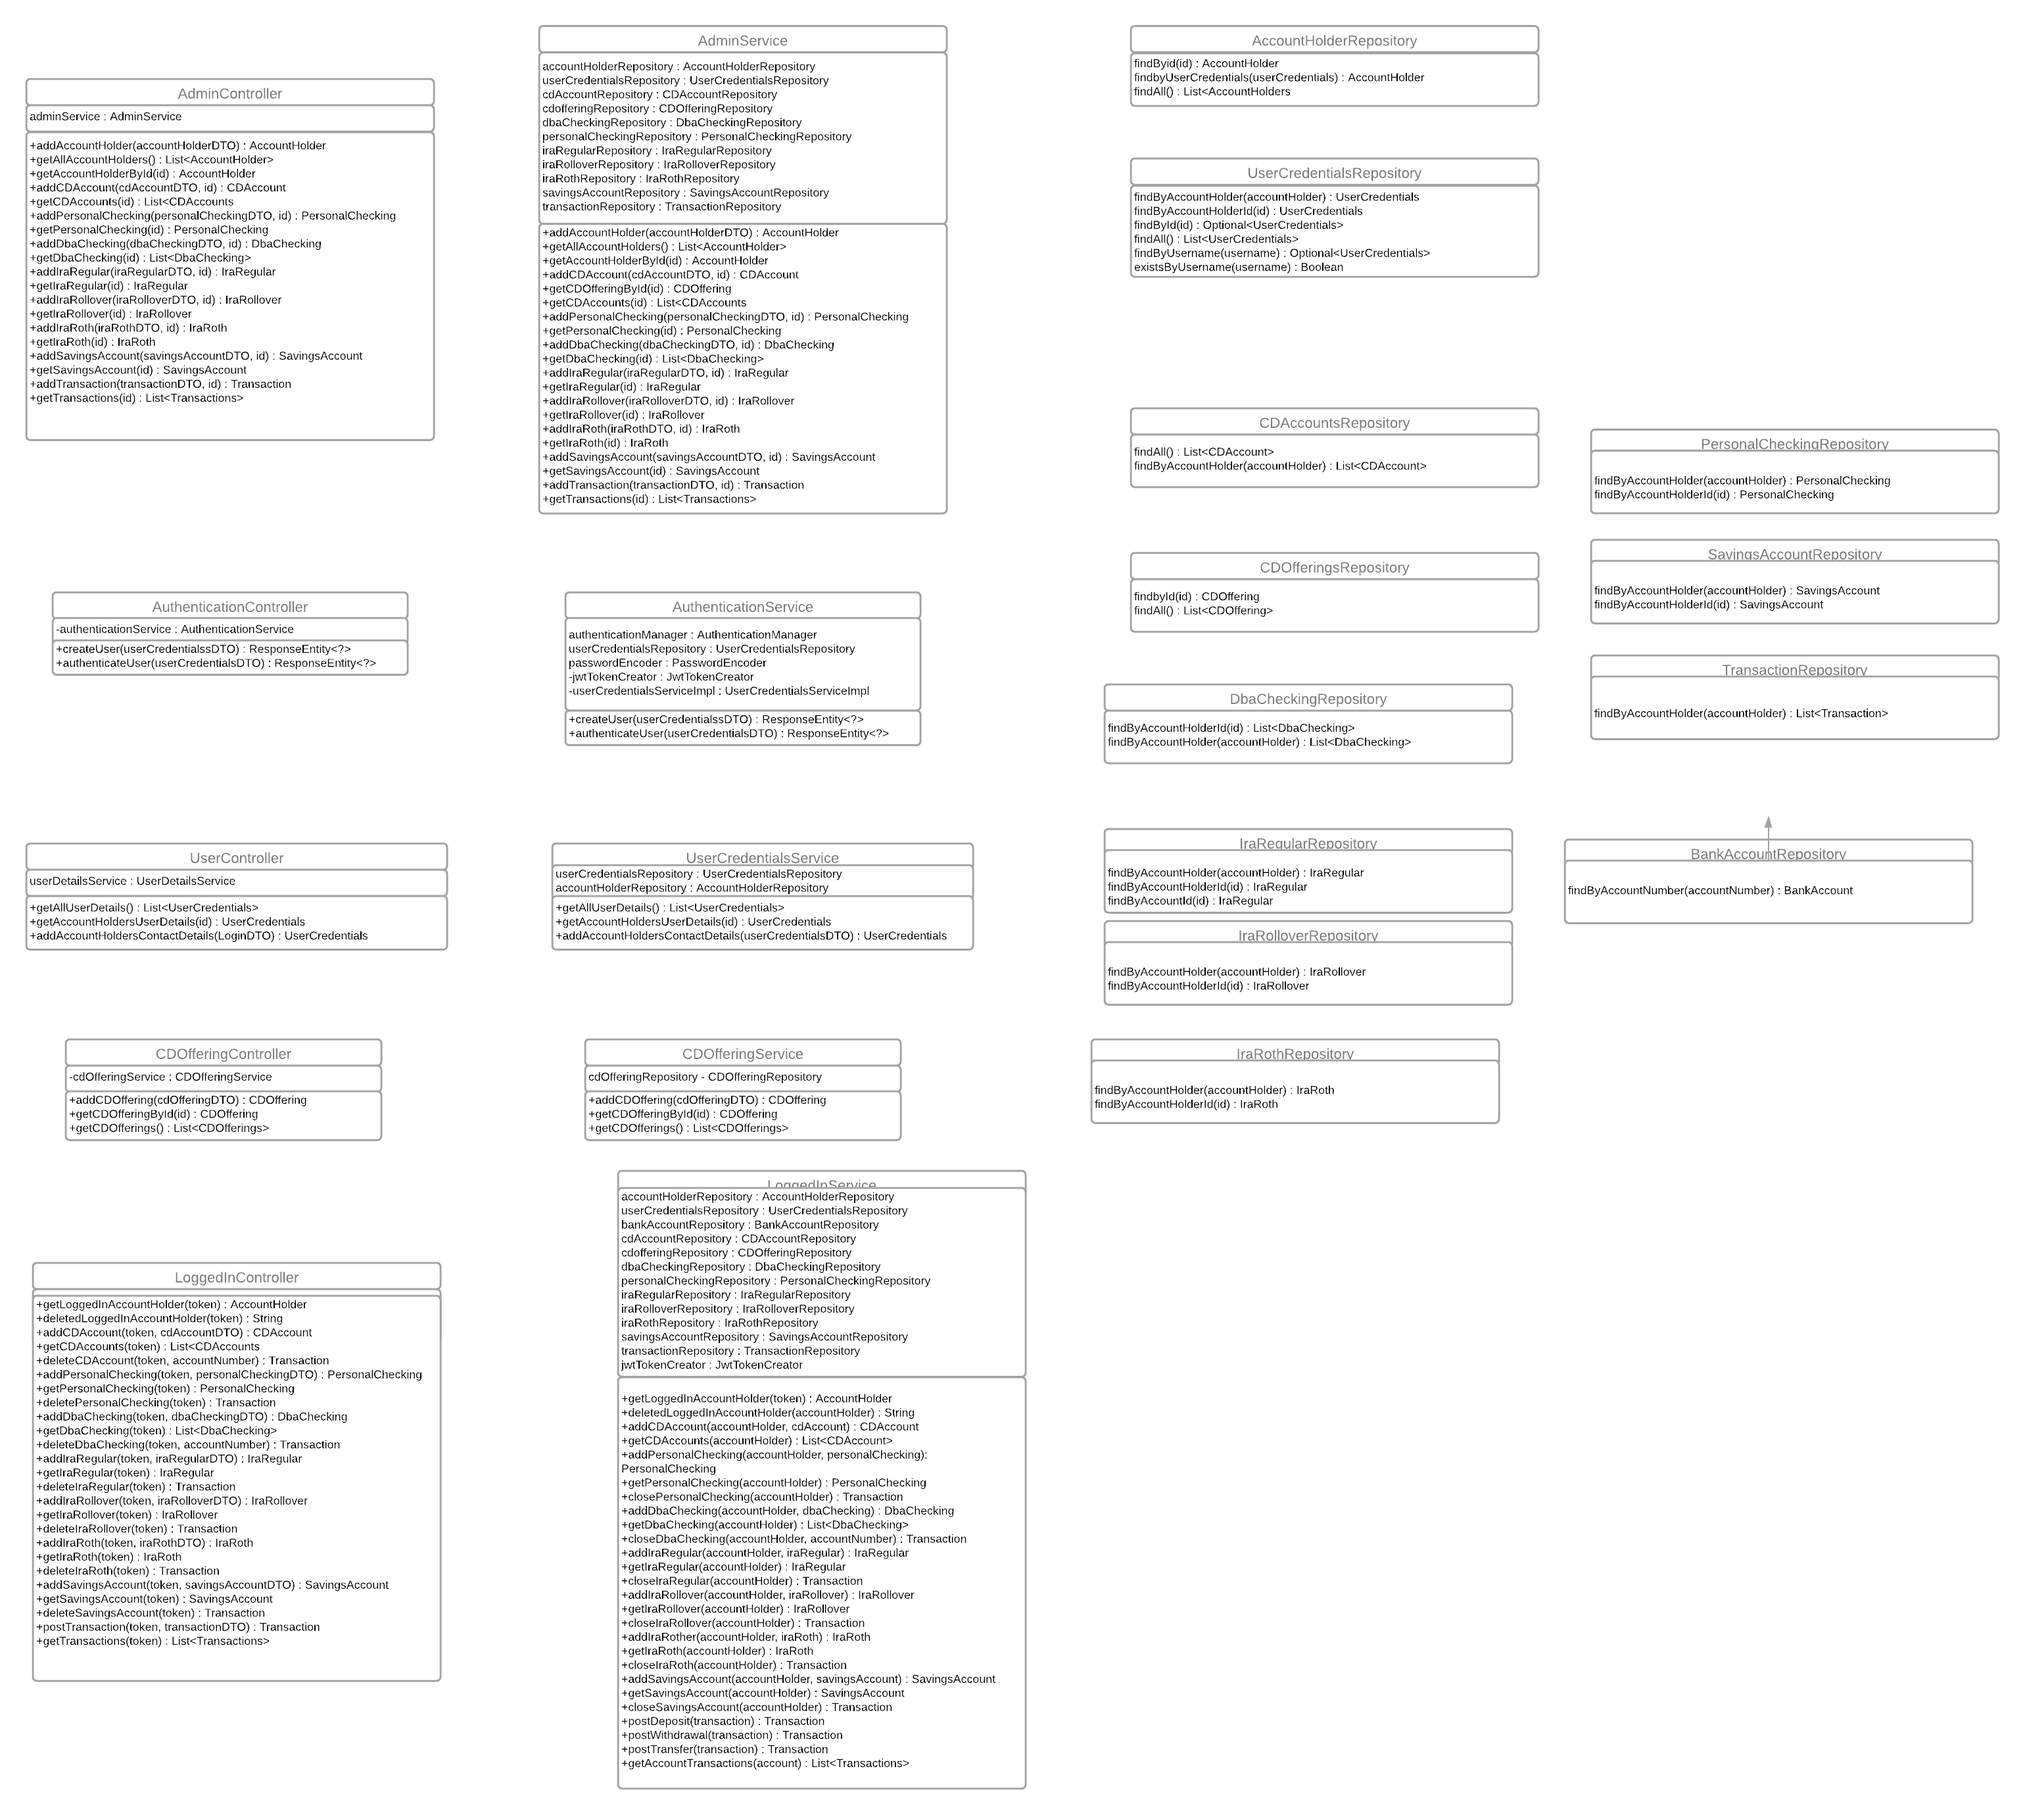
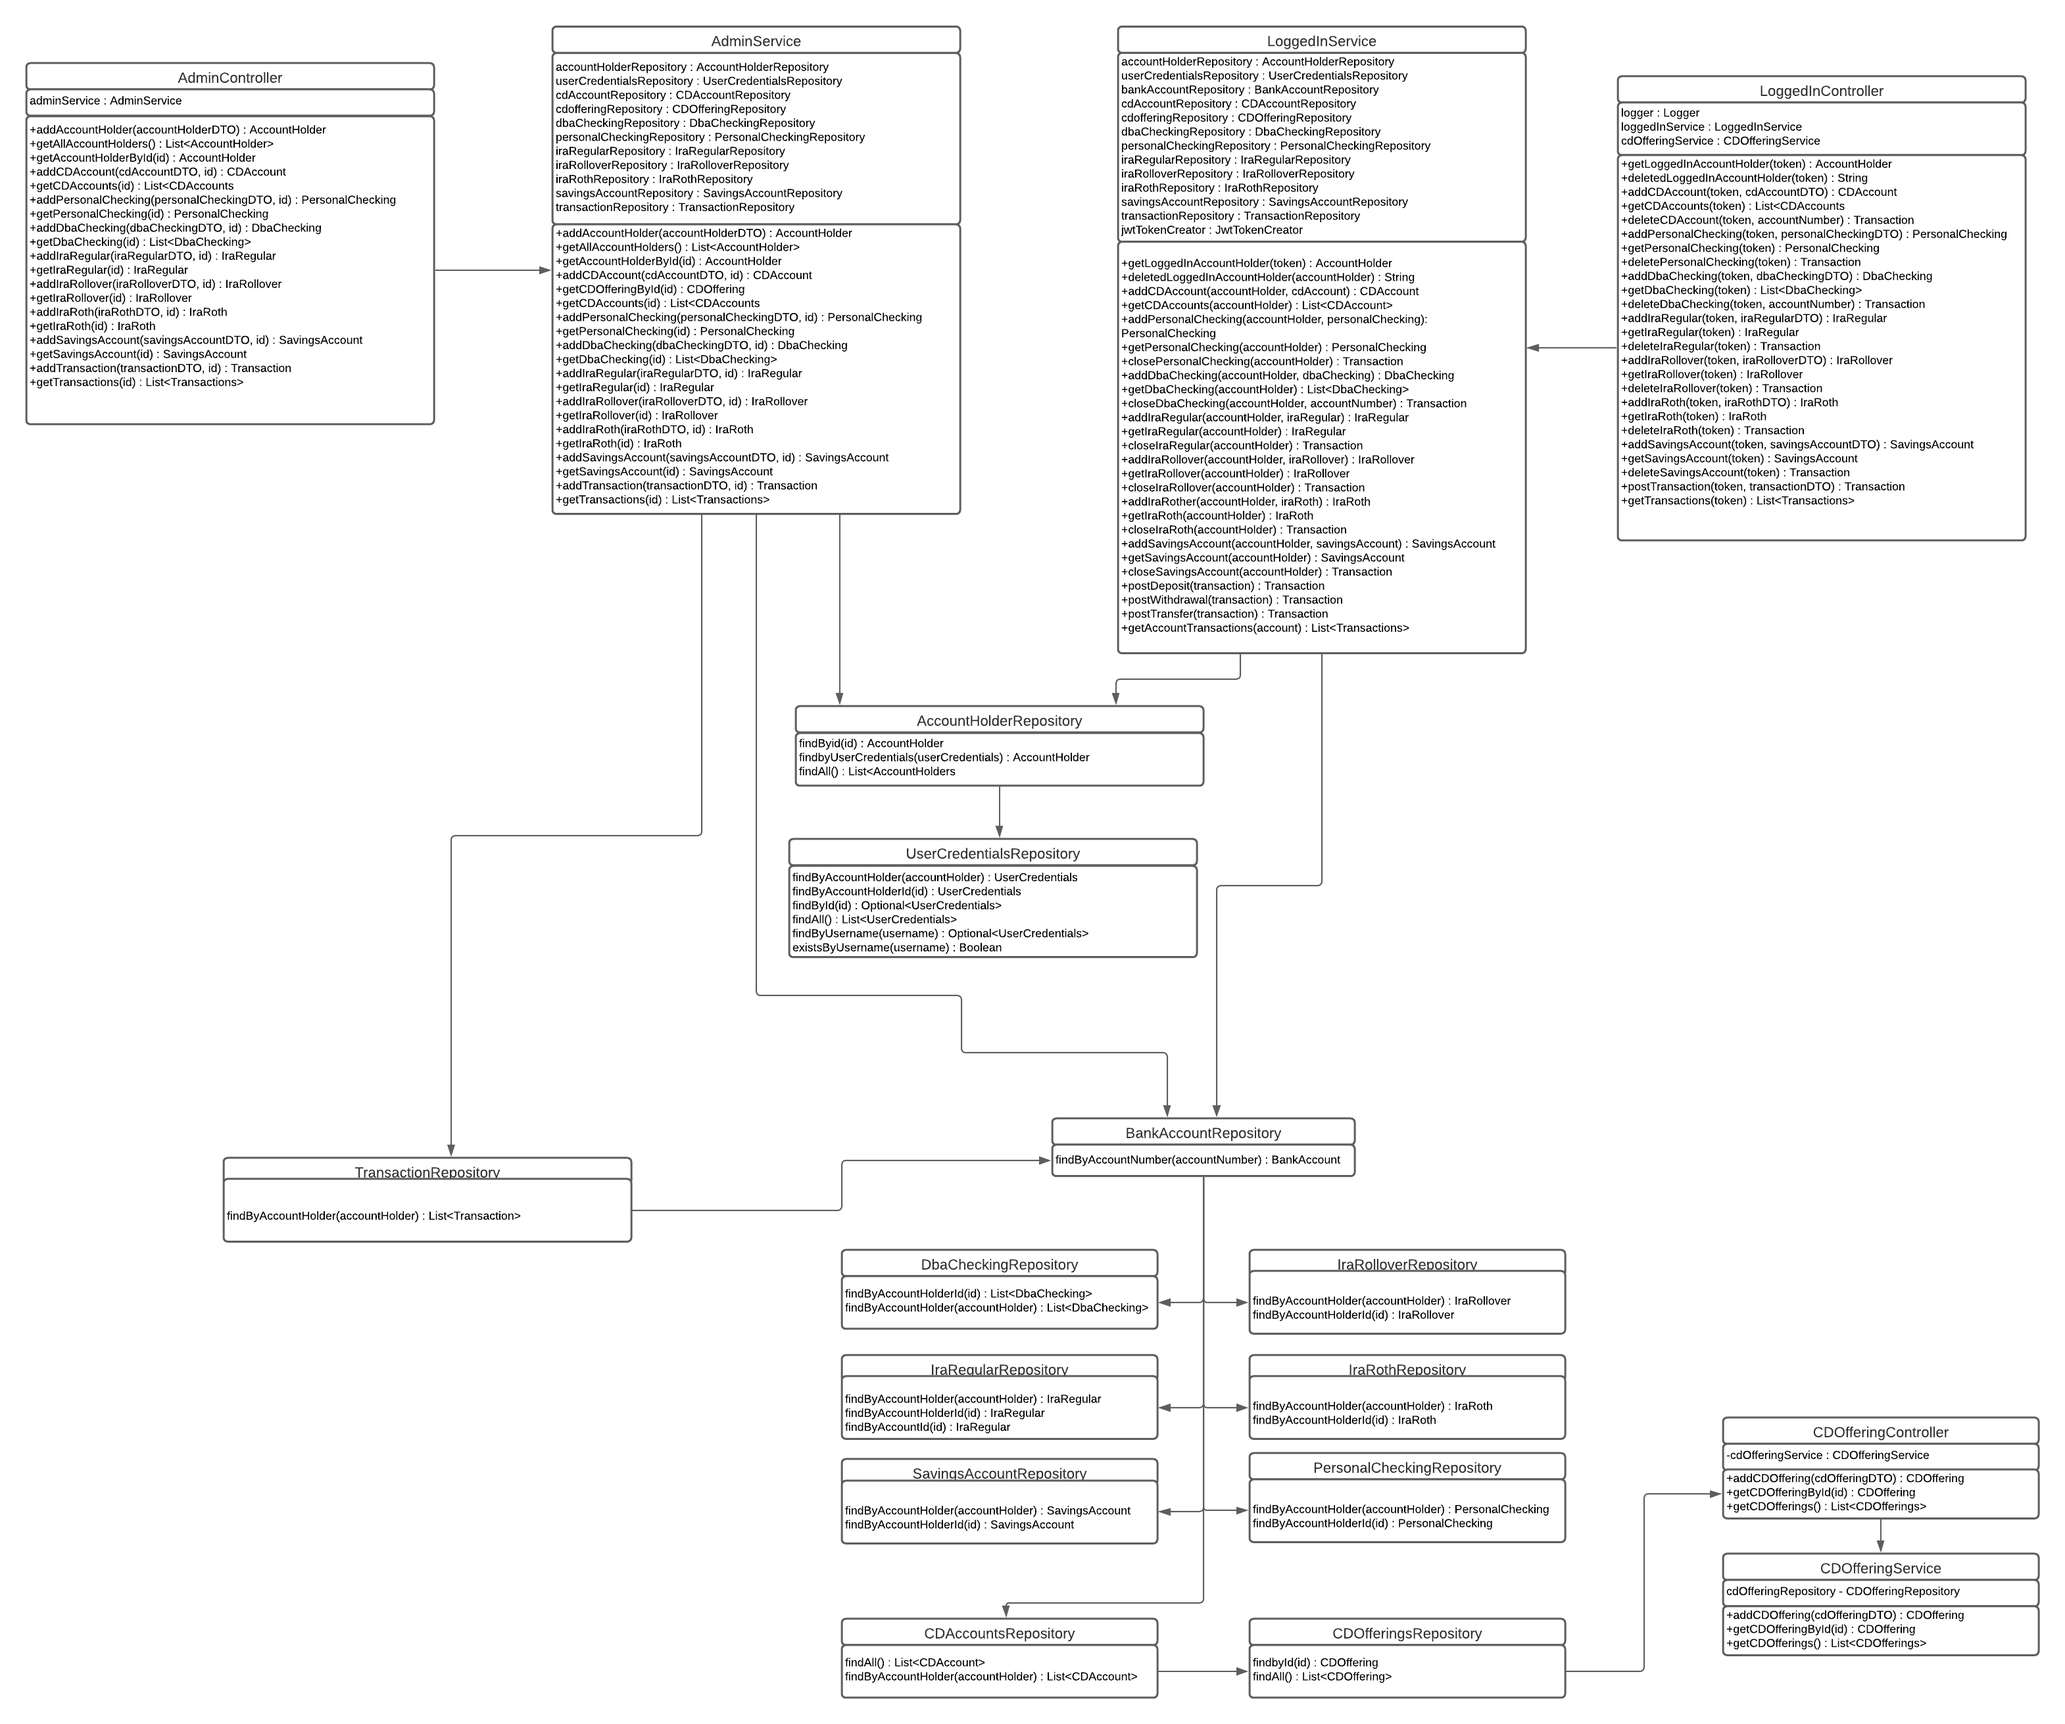
added bidirectionality from Transactions <-> BankAccount and updated Services.js and added Services.css

diff --git a/frontend/frontend/src/components/pages/Sevices.js b/frontend/frontend/src/components/pages/Sevices.js
@@ -1,11 +1,86 @@
 import React from 'react';
 import '../../App.css';
-import Cards from '../Cards';
+import '../../css/Services.css';
+import { Card, CardTitle, CardText} from 'reactstrap';
+
 
 function Services() {
   return (
     <div>
-      <Cards />
+      <div class="jumbotronService text-center">
+        <div class="jumbotronContainerService">
+          <h1 class="jumbotronHeaderService">Account Services</h1>
+          {/* <p class="jumbotronTextService">
+            We offer many accounts. Choose one that fits your needs.
+          </p> */}
+        </div>
+      </div>
+
+      <div className="accountServices">
+        <div className="account">
+          <h2 className="accountHeader">Certicate of Deposit (CD) Accounts</h2>< hr/>
+          <p className="accountInfo">A Certified Deposit account can be opened from a selection of offerings with terms ranging from one to ten years with diverse
+            and competitive interest rates making a cd account a great way to lock in and save for your future while your money does all the hard work for you. 
+             Open as many Certified Deposit accounts as fit your needs! </p>
+          <ul>
+            <li>Terms & Interest Rates</li>
+            <ul>
+              <li> 1 Year at 1.8%</li>
+              <li> 3 Years at 2.0%</li>
+              <li> 5 Years at 2.3%</li>
+              <li> 10 Years at 2.6%</li>
+            </ul>
+          </ul>
+        </div>
+        <div className="account">
+          <h2 className="accountHeader">Checking Accounts</h2>< hr/>
+          <p className="accountInfo">We offer both Personal Checking and DBA Checking accounts to fill all your personal and professional needs in one place. A
+          Personal Checking account is a great way to have quick and easy access to your money wherever and whenever you need it while a DBA checking can provide
+          you the same easy access to your business accounts.</p>
+          <ul>
+            <li>Interest Rates</li>
+            <ul>
+              <li>Personal Checking</li>
+              <ul>
+                <li> 1.0%</li>
+              </ul>
+              <li>DBA Checking</li>
+              <ul>
+                <li> 2.0%</li>
+              </ul>
+            </ul>
+          </ul>
+        </div>
+        <div className="account">
+          <h2 className="accountHeader">Savings Accounts</h2>< hr/>
+          <p className="accountInfo">Our savings accounts come with great interest rates and more flexibility than our IRA account so you still have access to 
+          your money and the ability to deposit, withdraw and transfer all while still gaining interest on your current balance so start saving with us today
+          with a simple savings account.
+          </p>
+          <ul>
+            <li>Interest Rate</li>
+            <ul>
+              <li> 2.0%</li>
+            </ul>
+          </ul>
+        </div>
+        <div className="account">
+          <h2 className="accountHeader">IRA Accounts</h2>< hr/>
+          <p className="accountInfo">We offer both Roth and Regular Individual Retirement Accounts and can Rollover an existing account.
+          </p>
+          <ul>
+            <li>Interest Rates</li>
+            <ul>
+              <li>IRA Regular</li>
+              <ul><li> 6.5%</li></ul>
+              <li>IRA Roth</li>
+              <ul><li> 8.0%</li></ul>
+              <li>IRA Rollover</li>
+              <ul><li> 8.0%</li></ul>
+            </ul>
+          </ul>
+        </div>
+      </div>
     </div>
   );
 }

diff --git a/frontend/frontend/src/services/AuthenticationService.js b/frontend/frontend/src/services/AuthenticationService.js
@@ -1,39 +1,45 @@
 import axios from "axios";
 
 class AuthenticationService {
+  login = (username, password) => {
+    return axios
+      .post("/login", { username, password })
+      .then((response) => {
+        if (response.data.accessToken) {
+          localStorage.setItem("user", JSON.stringify(response.data));
+        }
+        return response.data;
+      })
+      .catch((err) => {
+        console.log(err);
+        throw err;
+      });
+  };
 
-    login = (username, password) => {
-        return axios.post("/login", {username, password})
-            .then(response => {
-                if(response.data.accessToken){
-                    localStorage.setItem("user", JSON.stringify(response.data));
-                }
-                return response.data;
-            })
-            .catch(err => {
-                console.log(err);
-                throw err;
-        })
-    }
-    
-    signOut(){
-        localStorage.removeItem("user");
-    }
+  signOut() {
+    localStorage.removeItem("user");
+  }
 
-    register = async(username, password, firstName, middleName, lastName, ssn) => {
-        return axios.post("/createuser", {
-            username,
-            password,
-            firstName,
-            middleName,
-            lastName,
-            ssn
-        });
-    }
-
-    getCurrentUser(){
-        return JSON.parse(localStorage.getItem('user'));
-    }
+  getCurrentUser() {
+    return JSON.parse(localStorage.getItem("user"));
+  }
+  register = async (
+    username,
+    password,
+    firstName,
+    middleName,
+    lastName,
+    ssn
+  ) => {
+    return axios.post("/createuser", {
+      username,
+      password,
+      firstName,
+      middleName,
+      lastName,
+      ssn,
+    });
+  };
 }
 
 export default new AuthenticationService();

diff --git a/backend/src/main/java/com/capstonegroup2/backend/models/BankAccount.java b/backend/src/main/java/com/capstonegroup2/backend/models/BankAccount.java
@@ -11,6 +11,8 @@ import javax.persistence.*;
 import java.math.BigDecimal;
 import java.time.LocalDateTime;
 import java.time.format.DateTimeFormatter;
+import java.util.ArrayList;
+import java.util.List;
 import java.util.Random;
 
 @Data
@@ -32,6 +34,9 @@ public abstract class BankAccount {
 
     @Enumerated(EnumType.STRING)
     protected ActiveStatus activeStatus;
+
+    @OneToMany(fetch = FetchType.LAZY, cascade = CascadeType.ALL, mappedBy = "targetAccount")
+    protected List<Transaction> transactions = new ArrayList<>();
 
     public BankAccount(String balance, String interestRate) {
         this.balance = new BigDecimal(balance);

diff --git a/backend/src/main/java/com/capstonegroup2/backend/models/MeritBank.java b/backend/src/main/java/com/capstonegroup2/backend/models/MeritBank.java
@@ -7,8 +7,8 @@ import java.util.List;
 public class MeritBank {
 
 
-    public static final String DBA_CHECKING_INTEREST_RATE = "0.0005";
-    public static final String PERSONAL_CHECKING_INTEREST_RATE = ".0003";
+    public static final String DBA_CHECKING_INTEREST_RATE = "0.02";
+    public static final String PERSONAL_CHECKING_INTEREST_RATE = "0.01";
     public static final String IRA_REGULAR_INTEREST_RATE = "0.65";
     public static final String IRA_ROLLOVER_INTEREST_RATE = "0.08";
     public static final String IRA_ROTH_INTEREST_RATE = "0.08";
